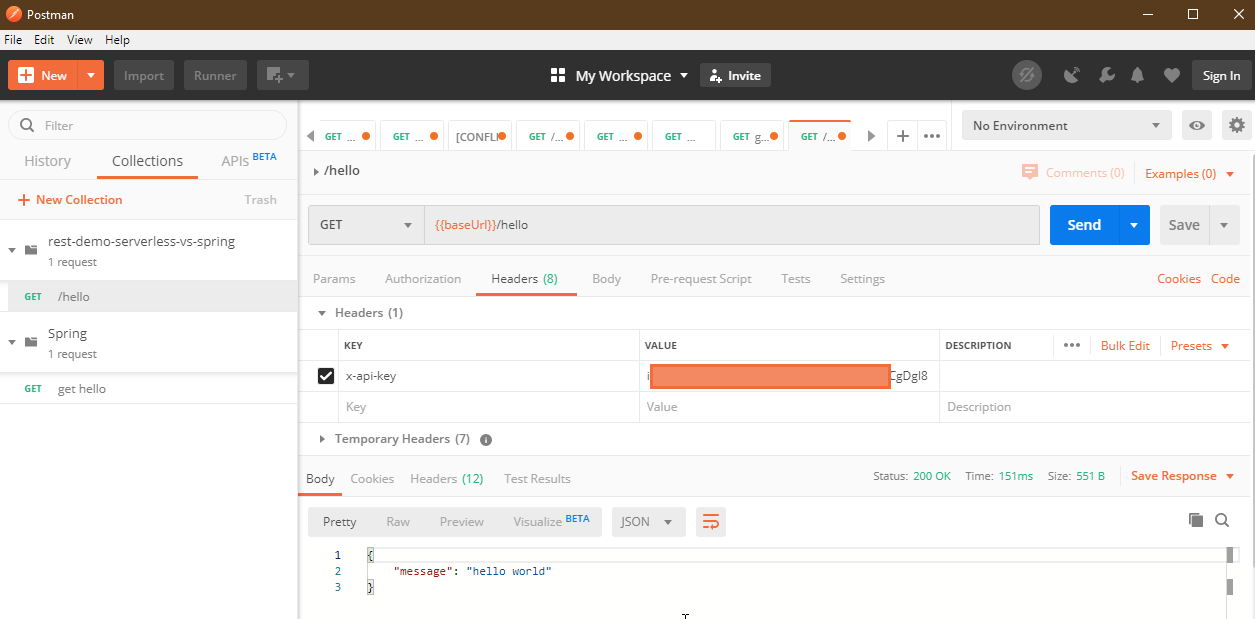
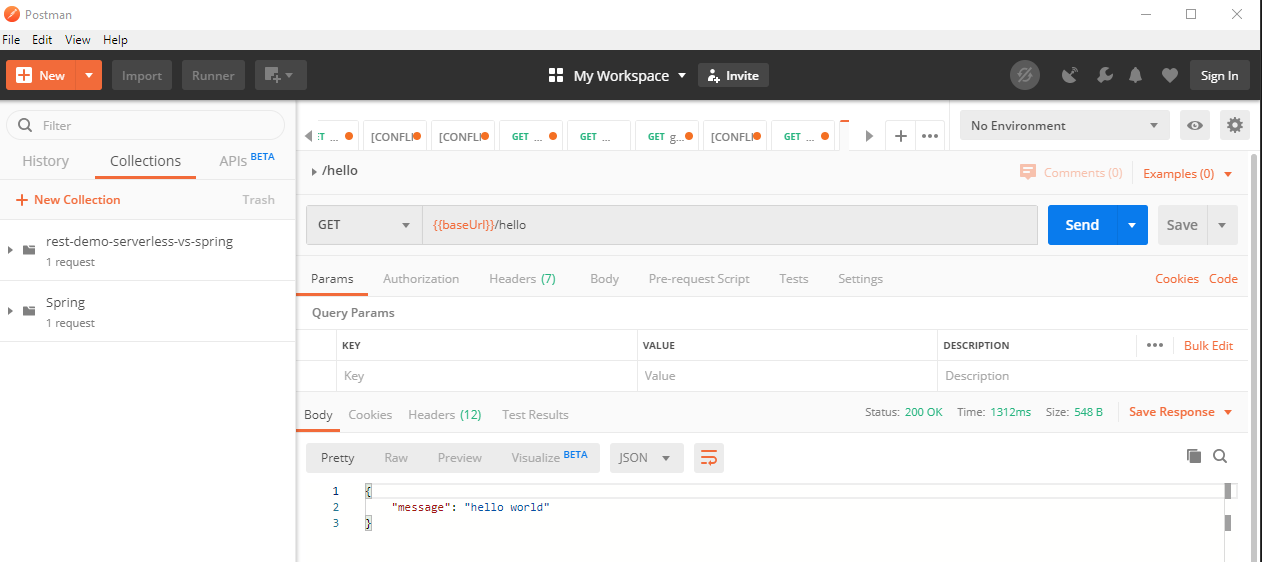
delete api-key

diff --git a/sections/REST-AWS-Spring/README.md b/sections/REST-AWS-Spring/README.md
@@ -73,9 +73,9 @@ If we import the package from Postman we can make the request:
 
 ![Postman GET](./images/api-get.png)
 
-``baseUrl`` is the invoke URL, in our example: https://1xl61kna0a.execute-api.eu-west-1.amazonaws.com/test
+``baseUrl`` is the invoke URL, something like this: https://xxxxxxxxxx.execute-api.eu-west-1.amazonaws.com/stage
 
-``x-api-key`` is the api-key that protects the request, it is not mandatory. To know how to create it see this url: [api-key AWS](https://docs.aws.amazon.com/apigateway/latest/developerguide/api-gateway-setup-api-key-with-console.html)
+To know how to create an api-key see this url: [api-key AWS](https://docs.aws.amazon.com/apigateway/latest/developerguide/api-gateway-setup-api-key-with-console.html)
 
 If we add ``/hello`` to the invoke URL, we make the request to the GET method.
 
@@ -84,10 +84,6 @@ If we add ``/hello`` to the invoke URL, we make the request to the GET method.
 We can also request with a Curl as follows:
 
 ![CURL GET successful](./images/curl-successful.png)
-
-As a demonstration, if we remove the header that stores the api-key of the request, the result is "Forbidden":
-
-![CURL GET forbidden](./images/curl-forbidden.png)
 
 </details>
 </p>
@@ -127,7 +123,7 @@ Run the application:
     mvn spring-boot:run
     ```
 
-With http://localhost:8080/hello we can make the following requests by browser, postman and curl
+With http://localhost:8080/hello we can make the following requests by browser, postman and curl.
 
 ### Postman
 
